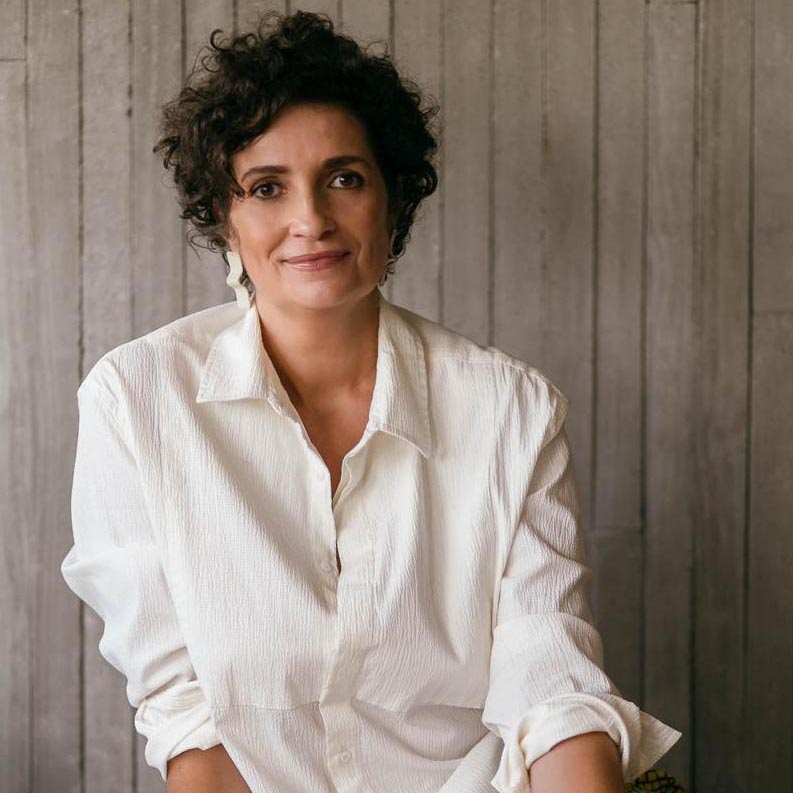
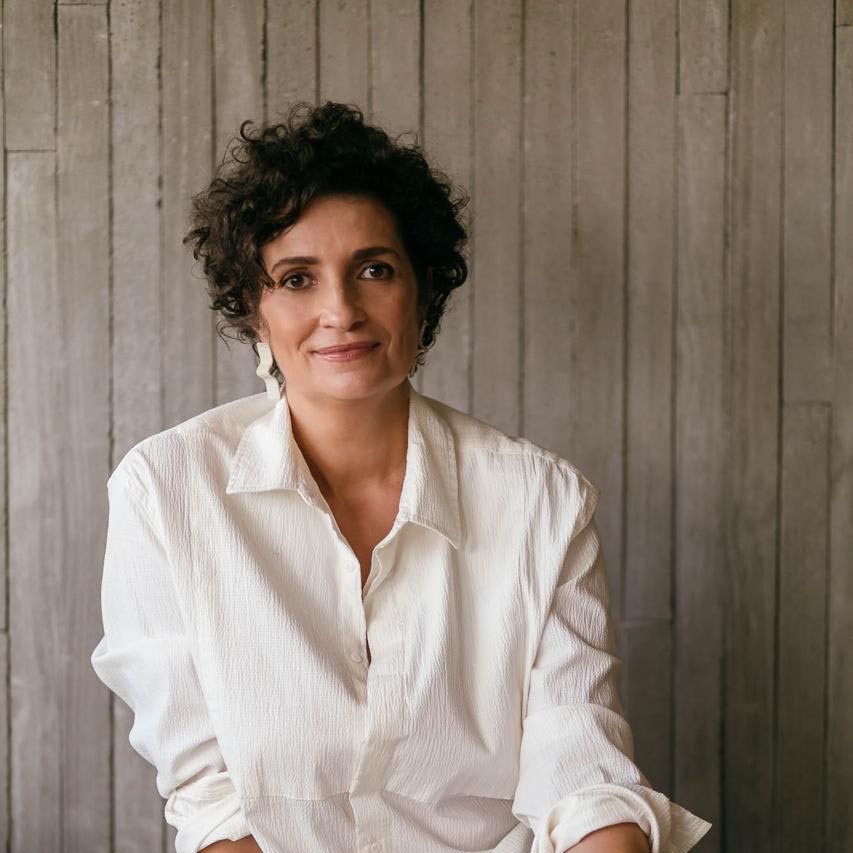
font Poppins, centered images

diff --git a/index.html b/index.html
@@ -8,7 +8,9 @@
 		<noscript><link rel="stylesheet" href="assets/css/noscript.css" /></noscript>
 		<link rel="preconnect" href="https://fonts.googleapis.com">
 		<link rel="preconnect" href="https://fonts.gstatic.com" crossorigin>
-		<link href="https://fonts.googleapis.com/css2?family=Prata&display=swap" rel="stylesheet">
+		<link rel="preconnect" href="https://fonts.googleapis.com">
+		<link rel="preconnect" href="https://fonts.gstatic.com" crossorigin>
+		<link href="https://fonts.googleapis.com/css2?family=Poppins:ital,wght@0,100;0,200;0,300;0,400;0,500;0,600;0,700;0,800;0,900;1,100;1,200;1,300;1,400;1,500;1,600;1,700;1,800;1,900&family=Prata&display=swap" rel="stylesheet">
 	</head>
 	<body class="is-preload">
 
@@ -44,16 +46,17 @@
 				<!-- One -->
 					<section id="one" class="wrapper style2 spotlights">
 						<section>
-							<a href="#" class="image"><img src="images/fabi.jpg" alt="" data-position="center center" /></a>
+							<a class="image"><img src="images/fabi.jpg" alt="Fabiana Corrêa é comunicadora, jornalista especializada em carreira e liderança feminina,
+								mentora de executivas e empreendedoras, palestrante, mediadora."/></a>
 							<div class="content">
 								<div class="inner">
 									<h2>Sed ipsum dolor</h2>
 									<p>Fabiana Corrêa é comunicadora, jornalista especializada em carreira e liderança feminina,
-										 mentora de executivas e empreendedoras, palestrante, mediadora. <br>Foi editora de Forbes
-										  e Forbes Mulher, Você S/A e Guia Exame/FIA Melhores Empresas para Trabalhar. Passou pelas
-										   redações de Veja, Claudia, Exame e Reuters.</p>
-										   <p>Entre seus projetos recentes estão a participação no júri do 
-										   Prêmio Bold Veuve Clicquot, mediações no Web Summit e sua apresentação no TedX Campinas.</p>
+									mentora de executivas e empreendedoras, palestrante, mediadora.</p>
+									<p>Foi editora de Forbes e Forbes Mulher, Você S/A e Guia Exame/FIA Melhores Empresas para Trabalhar. Passou pelas
+									redações de Veja, Claudia, Exame e Reuters.</p>
+									<p>Entre seus projetos recentes estão a participação no júri do 
+									Prêmio Bold Veuve Clicquot, mediações no Web Summit e sua apresentação no TedX Campinas.</p>
 									<ul class="actions">
 										
 									</ul>

diff --git a/assets/css/main.css b/assets/css/main.css
@@ -21,7 +21,9 @@ section, summary, time, mark, audio, video {
 	padding: 0;
 	border: 0;
 	font-size: 100%;
-	font: inherit;
+	font-family: "Poppins", sans-serif;
+  	font-weight: 300;
+  	font-style: normal;
 	vertical-align: baseline;}
 
 article, aside, details, figcaption, figure,
@@ -3012,12 +3014,11 @@ input, select, textarea {
 		}
 
 		.spotlights > section > .image {
-			background-position: center center;
 			background-size: cover;
 			border-radius: 0;
 			display: block;
 			position: relative;
-			width: 25em;
+			width: 35em;
 		}
 
 			.spotlights > section > .image img {
